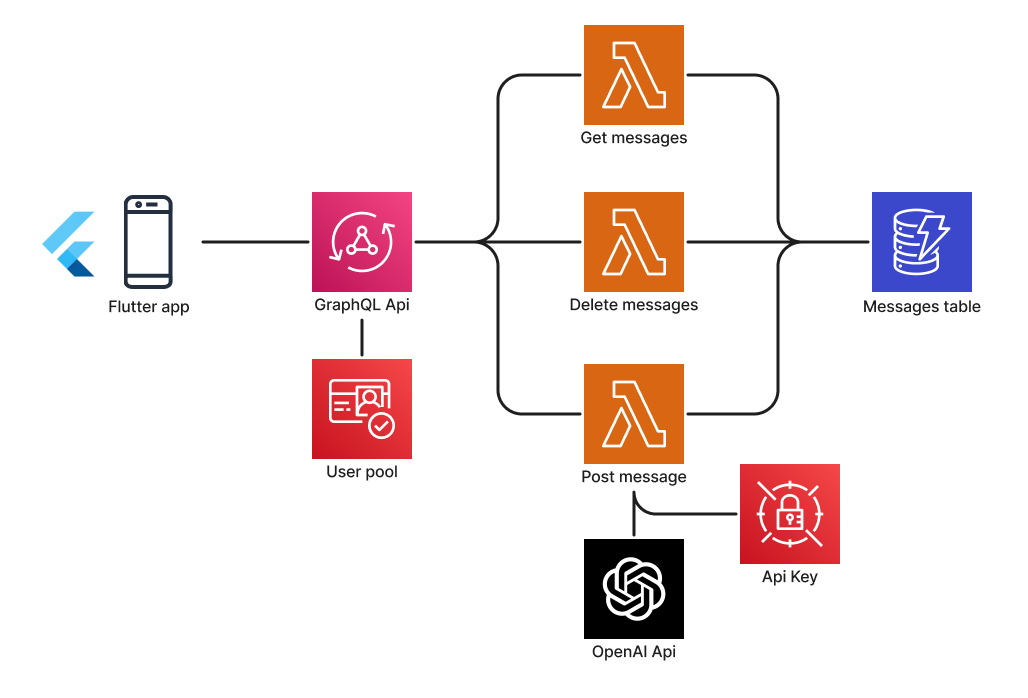
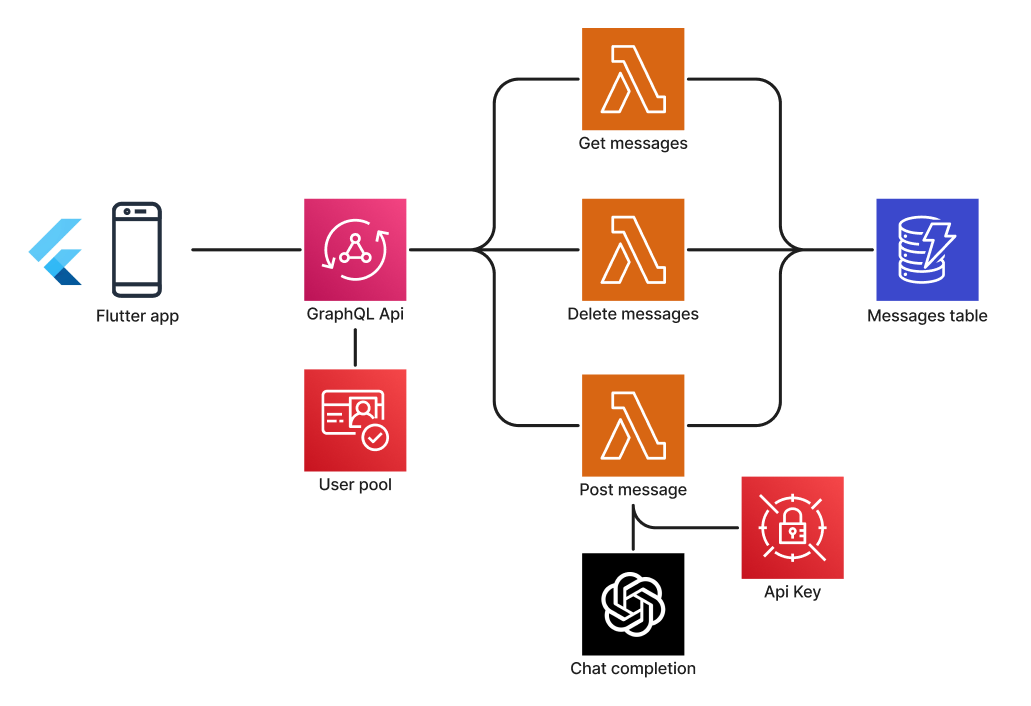
fix diagram

Changed region(s): [[0.0311, 0.1203, 0.965, 0.9628], [0.4981, 0.0301, 0.7471, 0.2106], [0.7471, 0.1203, 0.7782, 0.1504]]

diff --git a/readme_assets/diagram_as_code.py b/readme_assets/diagram_as_code.py
@@ -27,7 +27,7 @@ with Diagram("", show=False, filename="diagram_as_code", graph_attr=graph_attr):
     lambda2 = Lambda("Delete messages", **node_attrs)
     lambda3 = Lambda("Post message", **node_attrs)
     db = Dynamodb("Messages Table", **node_attrs)
-    openai = Custom("OpenAI Api", "./openai_logo.png", **node_attrs)
+    openai = Custom("Chat completion", "./openai_logo.png", **node_attrs)
     api_key = SecretsManager("Api Key", **node_attrs)
 
     # Invisible alighment
